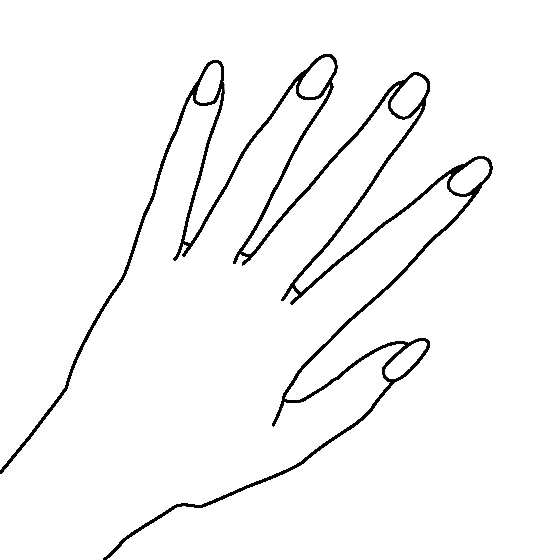
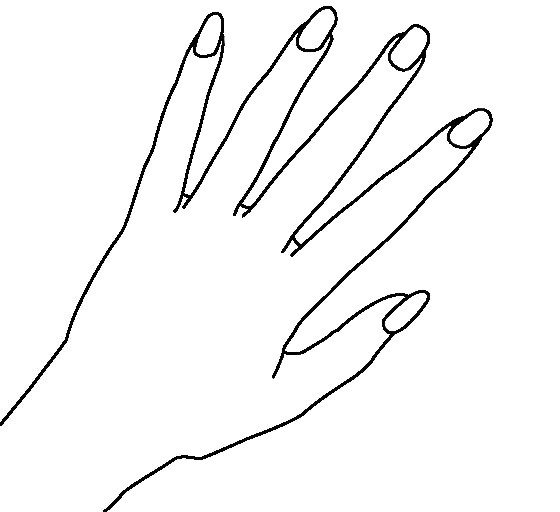
change png

diff --git a/polishpick-final/nailcolor.js b/polishpick-final/nailcolor.js
@@ -4,11 +4,11 @@ let clr;
 let pick;
 
 function preload() {
-  hand = loadImage('hand-nails.png');
+  hand = loadImage('https://anaudday.github.io/polishpick-final/hand-nails.png');
 }
 
 function setup() {
-  createCanvas(400, 400);
+  createCanvas(560, 560);
   background(400);
   frameRate(60);
   image(hand, 0, 0);
